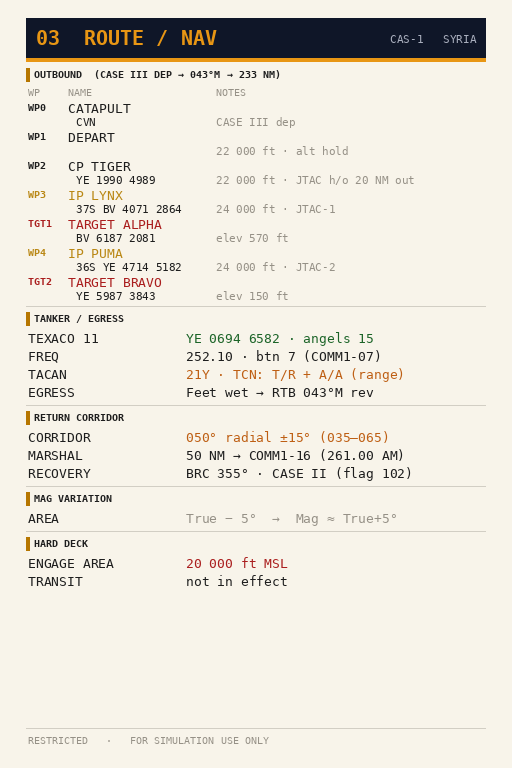
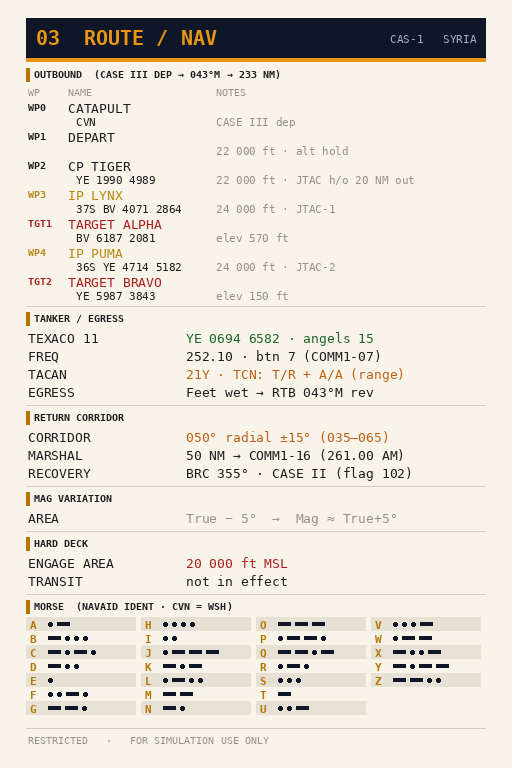
feat(kneeboard): make_kneeboard v3.2.0 Morse A-Z table on 03 ROUTE / NAV
Replaces the separate Morse.jpg page in the global FA-18C kneeboard folder.
Applied to src/KNEEBOARD (template) and CAS (L) + TEST-J1/J2 via refresh_scripts --kneeboard.

Claude-Session: https://claude.ai/code/session_01Jqre9wjkpxrb461i4ngvuh

diff --git a/tools/make_kneeboard.py b/tools/make_kneeboard.py
@@ -1,4 +1,6 @@
-# make_kneeboard.py | v3.1.4
+# make_kneeboard.py | v3.2.0
+# v3.2.0: 03 ROUTE / NAV: Morse A-Z table (NAVAID ident check) at the bottom; replaces the
+#         separate Morse.jpg page in Saved Games\DCS\Kneeboard\FA-18C_hornet.
 # v3.1.4: hard deck 20 000 ft MSL (Comms_Director v1.6.3).
 # v3.1.3: IP LYNX / IP PUMA are CAS-1 route waypoints WP3 / WP4 (03 ROUTE labels, 04/05 IP rows).
 # v3.1.2: scripted JTAC cards: keyhole IP note (JTAC_Controller v0.3.0 may brief 'keyhole brg/NM').
@@ -162,7 +164,26 @@ def route():
     c.kv("AREA", "True − 5°  →  Mag ≈ True+5°", "m")
     c.rule(); c.head("HARD DECK")
     c.kv("ENGAGE AREA", "20 000 ft MSL", "r"); c.kv("TRANSIT", "not in effect")
+    c.rule(); c.head("MORSE  (NAVAID IDENT · CVN = WSH)")
+    morse(c)
     return c
+
+MORSE = dict(zip("ABCDEFGHIJKLMNOPQRSTUVWXYZ", [".-", "-...", "-.-.", "-..", ".", "..-.", "--.", "....",
+    "..", ".---", "-.-", ".-..", "--", "-.", "---", ".--.", "--.-", ".-.", "...", "-", "..-", "...-", ".--",
+    "-..-", "-.--", "--.."]))
+
+def morse(c, rows=7, cols=4, rh=14):
+    """A-Z in column-major order (A-G | H-N | O-U | V-Z); dots/dashes drawn as shapes."""
+    d, cw = c.d, IW // cols
+    for i, L in enumerate("ABCDEFGHIJKLMNOPQRSTUVWXYZ"):
+        x = (i // rows) * cw + 2; y = c.y + (i % rows) * rh
+        if (i % rows) % 2 == 0: d.rectangle((x - 2, y - 1, x + cw - 8, y + rh - 2), fill=BAND)
+        d.text((x + 2, y), L, font=B11, fill=TAG)
+        cx, cy = x + 20, y + 6
+        for s in MORSE[L]:
+            if s == ".": d.ellipse((cx, cy - 2, cx + 4, cy + 2), fill=NAVY); cx += 4 + 5
+            else: d.rectangle((cx, cy - 2, cx + 12, cy + 1), fill=NAVY); cx += 12 + 5
+    c.y += rows * rh
 
 def jtac(num, name, tl, tr, contact, nine, restr, extra_head, extra, flow, threats=None, banner=None):
     c = Card(num, name, tl, tr)
